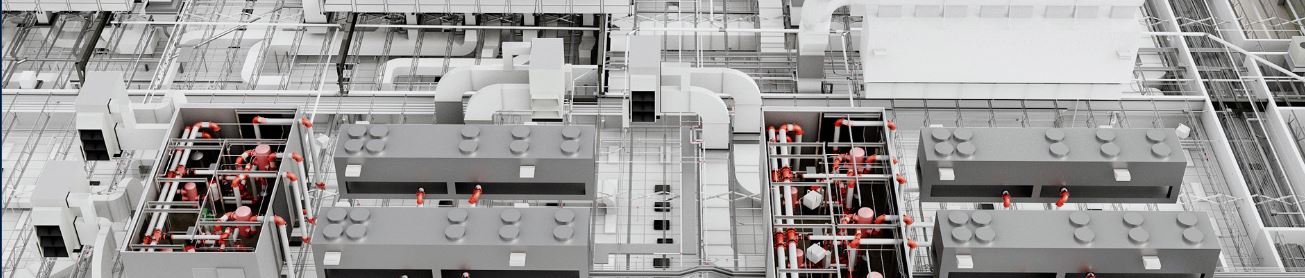
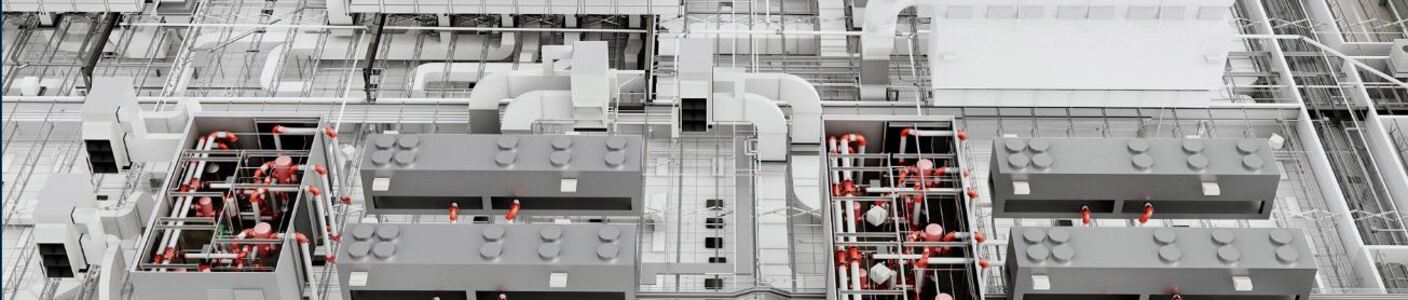
add imagen slider buttons

diff --git a/src/Components/HomeComponents/ImageSlider.tsx b/src/Components/HomeComponents/ImageSlider.tsx
@@ -1,33 +1,64 @@
-import React, { useState, useEffect } from 'react';
+import React, { useState, useEffect, useRef } from 'react';
 import './ImageSlider.css';
 
 const ImageSlider = () => {
-    const [index, setIndex] = useState(0);
-    const images = [
-      `${process.env.PUBLIC_URL}/BIM.jpg`,
-      `${process.env.PUBLIC_URL}/quirofanos_zerboni_3d_revit.png`,
-    ];
-  
-    useEffect(() => {
-      const intervalId = setInterval(() => {
-        setIndex((index + 1) % images.length);
-      }, 5000);
-      return () => clearInterval(intervalId);
-    }, [index, images.length]);
-  
-    return (
-      <><div>
-          <img className="img-slider" src={images[index]} alt="Slider" />
-        </div>
-        </>
+  const [index, setIndex] = useState(0);
+  const [fade, setFade] = useState(false);
+  const intervalRef = useRef<number | null>(null); // ✅ CORREGIDO
 
-    );
+  const images = [
+    `${process.env.PUBLIC_URL}/BIM.jpg`,
+    `${process.env.PUBLIC_URL}/hmercante.jpeg`,
+  ];
+
+  const startAutoPlay = () => {
+    intervalRef.current = window.setInterval(() => { // ✅ Uso explícito de window.setInterval
+      setFade(false);
+      setIndex((prevIndex) => (prevIndex + 1) % images.length);
+    }, 5000);
   };
-  
-  export default ImageSlider;
-  // creamos un componente ImageSlider que mantiene el índice actual de la imagen en un estado (index) y una lista de imágenes (images). Usamos useEffect para establecer un intervalo de tiempo que actualiza el índice de la imagen cada 5 segundos (5000 milisegundos). Finalmente, renderizamos la imagen actual en un elemento img.
-  
-  
-  
-  
-  
+
+  const stopAutoPlay = () => {
+    if (intervalRef.current !== null) {
+      clearInterval(intervalRef.current);
+    }
+  };
+
+  useEffect(() => {
+    const timeout = setTimeout(() => setFade(true), 4000);
+    stopAutoPlay();
+    startAutoPlay();
+
+    return () => {
+      clearTimeout(timeout);
+      stopAutoPlay();
+    };
+  }, [index]);
+
+  const goToSlide = (i: number) => { // ✅ CORREGIDO
+    stopAutoPlay();
+    setFade(false);
+    setIndex(i);
+  };
+
+  return (
+    <div className="slider-container">
+      <img
+        className={`img-slider ${fade ? 'fade-out' : ''}`}
+        src={images[index]}
+        alt={`Slide ${index}`}
+      />
+      <div className="slider-controls">
+        {images.map((_, i) => (
+          <span
+            key={i}
+            className={`dot ${i === index ? 'active' : ''}`}
+            onClick={() => goToSlide(i)}
+          ></span>
+        ))}
+      </div>
+    </div>
+  );
+};
+
+export default ImageSlider;

diff --git a/src/Components/HomeComponents/NuestrosServicios.tsx b/src/Components/HomeComponents/NuestrosServicios.tsx
@@ -2,7 +2,7 @@ import React from 'react';
 import './NuestrosServicios.css';
 import TecnologiesImageSlider from './TecnologiesImageSlider';
 import { FontAwesomeIcon } from '@fortawesome/react-fontawesome';
-import { faBolt, faLightbulb, faNetworkWired, faVideo, faFireExtinguisher, faChartLine } from '@fortawesome/free-solid-svg-icons';
+import { faBolt, faLightbulb, faNetworkWired, faVideo, faFireExtinguisher, faChartLine, faSolarPanel } from '@fortawesome/free-solid-svg-icons';
 
 const TextSlider: React.FC<{ texts: string[] }> = ({ texts }) => {
   const [currentTextIndex, setCurrentTextIndex] = React.useState(0);
@@ -41,6 +41,11 @@ function NuestrosServicios() {
       icon: faBolt,
       titulo: "Proyectos Eléctricos",
       descripcion: "Diseño, ejecución y supervisión de instalaciones eléctricas en Baja y Media tensión.",
+    },
+    {
+      icon: faSolarPanel,
+      titulo: "Sistemas críticos de generación de emergencia",
+      descripcion: "Soluciones de generación eléctrica con grupos electrógenos a gas o diésel, y sistemas solares on-grid y off-grid, diseñadas para garantizar continuidad operativa ante cortes o fallas de red.",
     },
     {
       icon: faLightbulb,

diff --git a/src/Components/HomeComponents/ImageSlider.css b/src/Components/HomeComponents/ImageSlider.css
@@ -1,21 +1,40 @@
+.slider-container {
+  position: relative;
+  width: 100%;
+  height: 300px;
+  overflow: hidden;
+}
+
 .img-slider {
-    position: relative;
-    width: 100%;
-    height: 90%;
-    overflow: hidden;
-  }
-  
-  .img-slider img {
-    position: absolute;
-    top: 0;
-    left: 0;
-    width: 100%;
-    height: 100%;
-    opacity: 1;
-    transition: transform 0.5s ease-in-out, opacity 0.5s ease-in-out;
-  }
-  
-  .img-slider img.inactive {
-    opacity: 0;
-    transform: translateX(100%);
-  }
+  width: 100%;
+  height: 100%;
+  object-fit: cover;
+  opacity: 1;
+  transition: opacity 1s ease-in-out;
+}
+
+.img-slider.fade-out {
+  opacity: 0;
+}
+
+.slider-controls {
+  position: absolute;
+  bottom: 15px;
+  width: 100%;
+  display: flex;
+  justify-content: center;
+  gap: 10px;
+}
+
+.dot {
+  width: 14px;
+  height: 14px;
+  border-radius: 50%;
+  background-color: #ccc;
+  cursor: pointer;
+  transition: background-color 0.3s;
+}
+
+.dot.active {
+  background-color: #333;
+}
